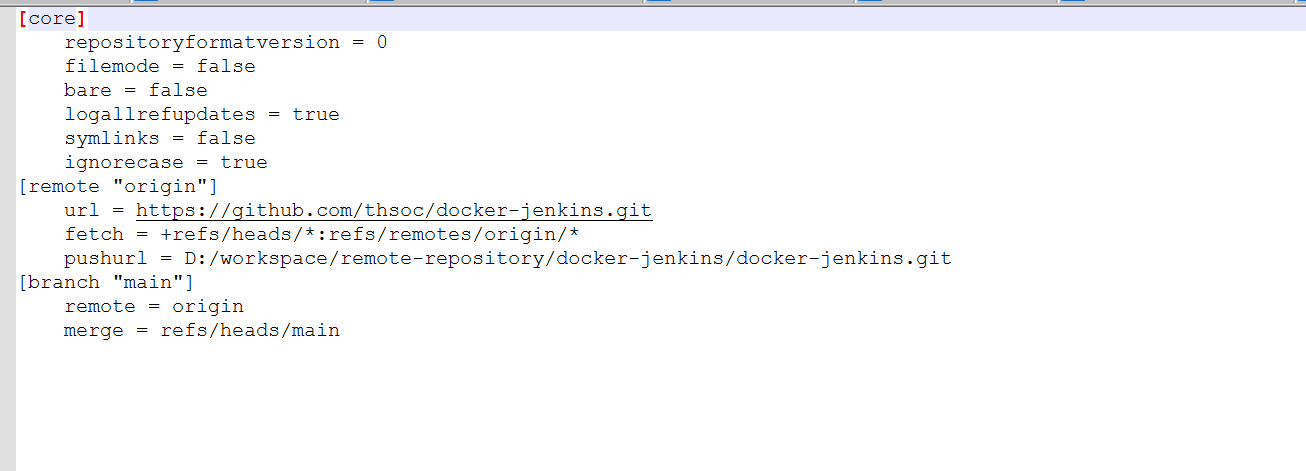
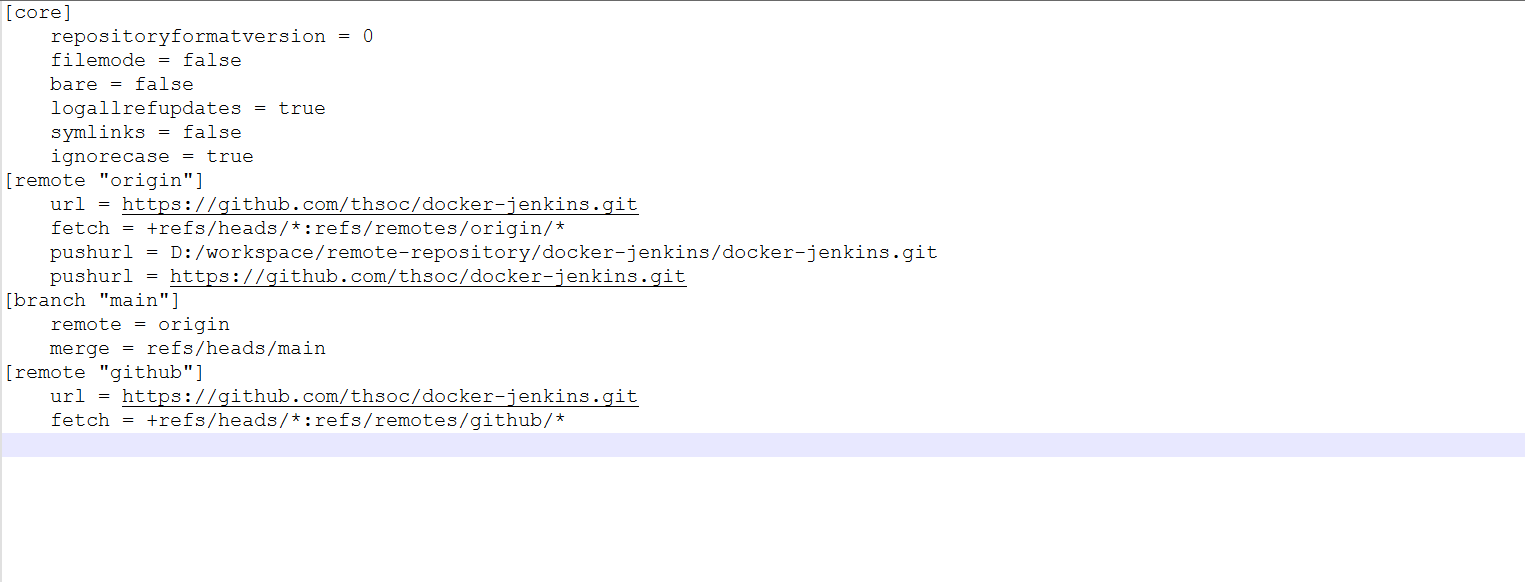
first commit

Changed region(s): [[0.0, 0.0, 1.0, 1.0]]

diff --git a/搭建/搭建jenkins.md b/搭建/搭建jenkins.md
@@ -19,6 +19,7 @@ git init
 git remote add origin https://github.com/thsoc/docker-jenkins.git
 # 第二步：再添加第二个 push 地址（指向本地裸仓库，jenkin需要，实际开发只需要第一步，这里是因为docker jenkins无法拉取github代码（网络问题，这边设置本地仓库作为"远程"仓库））
 git remote set-url --add --push origin D:/workspace/remote-repository/docker-jenkins/docker-jenkins.git
+git remote set-url --add --push origin https://github.com/thsoc/docker-jenkins.git
 # 验证配置
 git remote -v
 # 输出应该类似：
